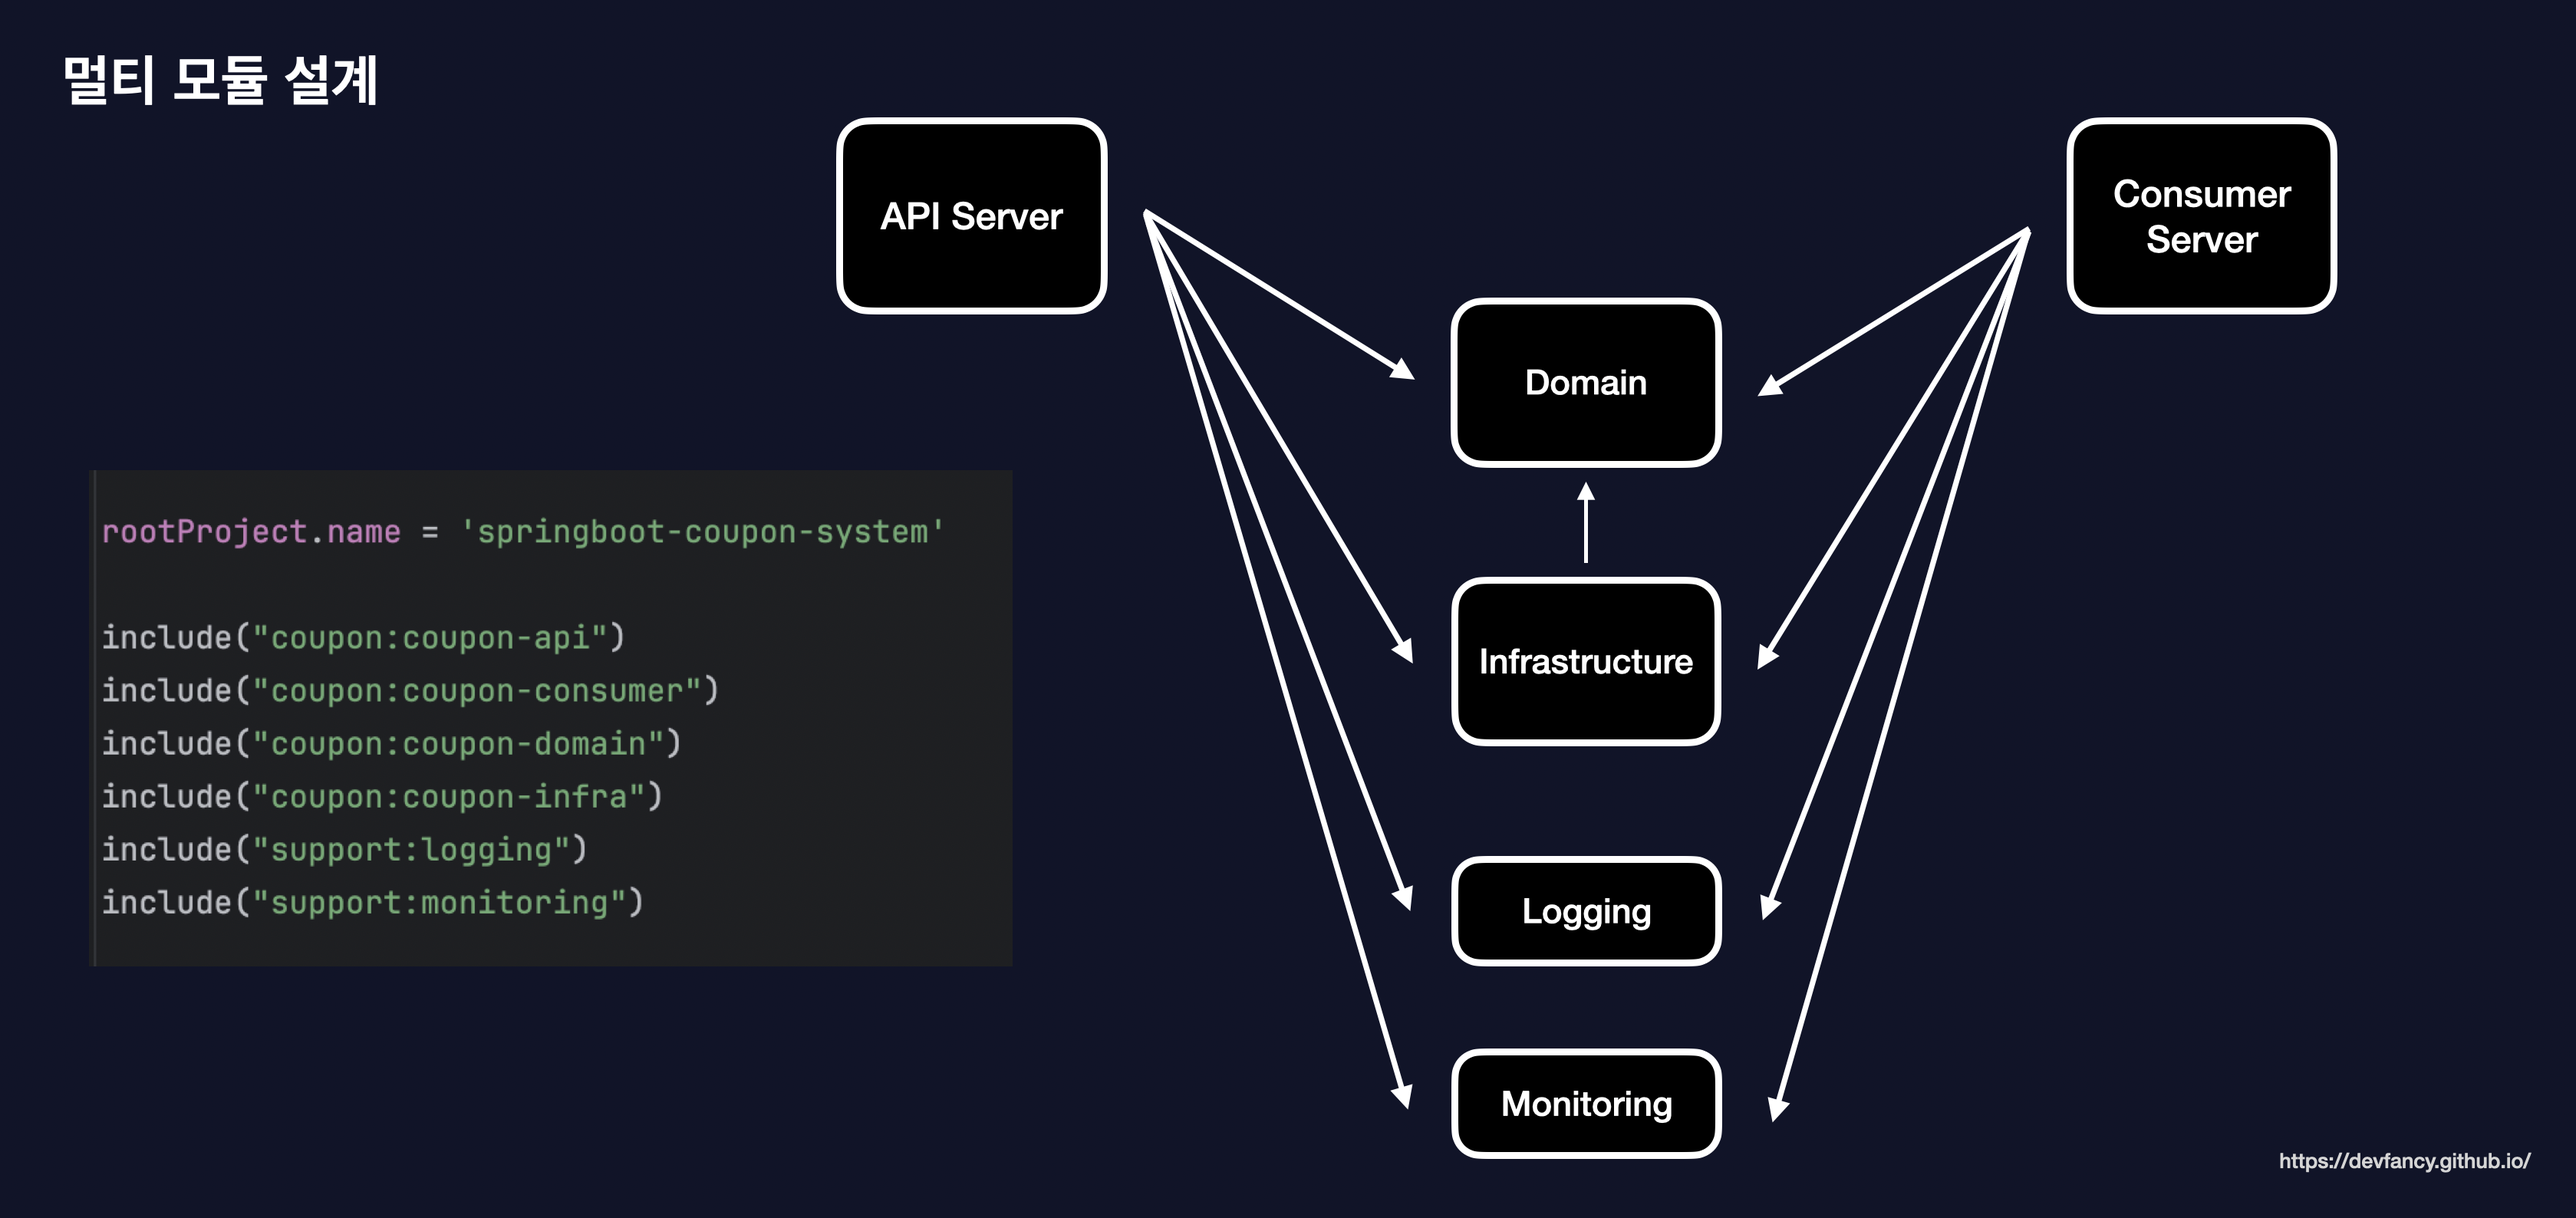
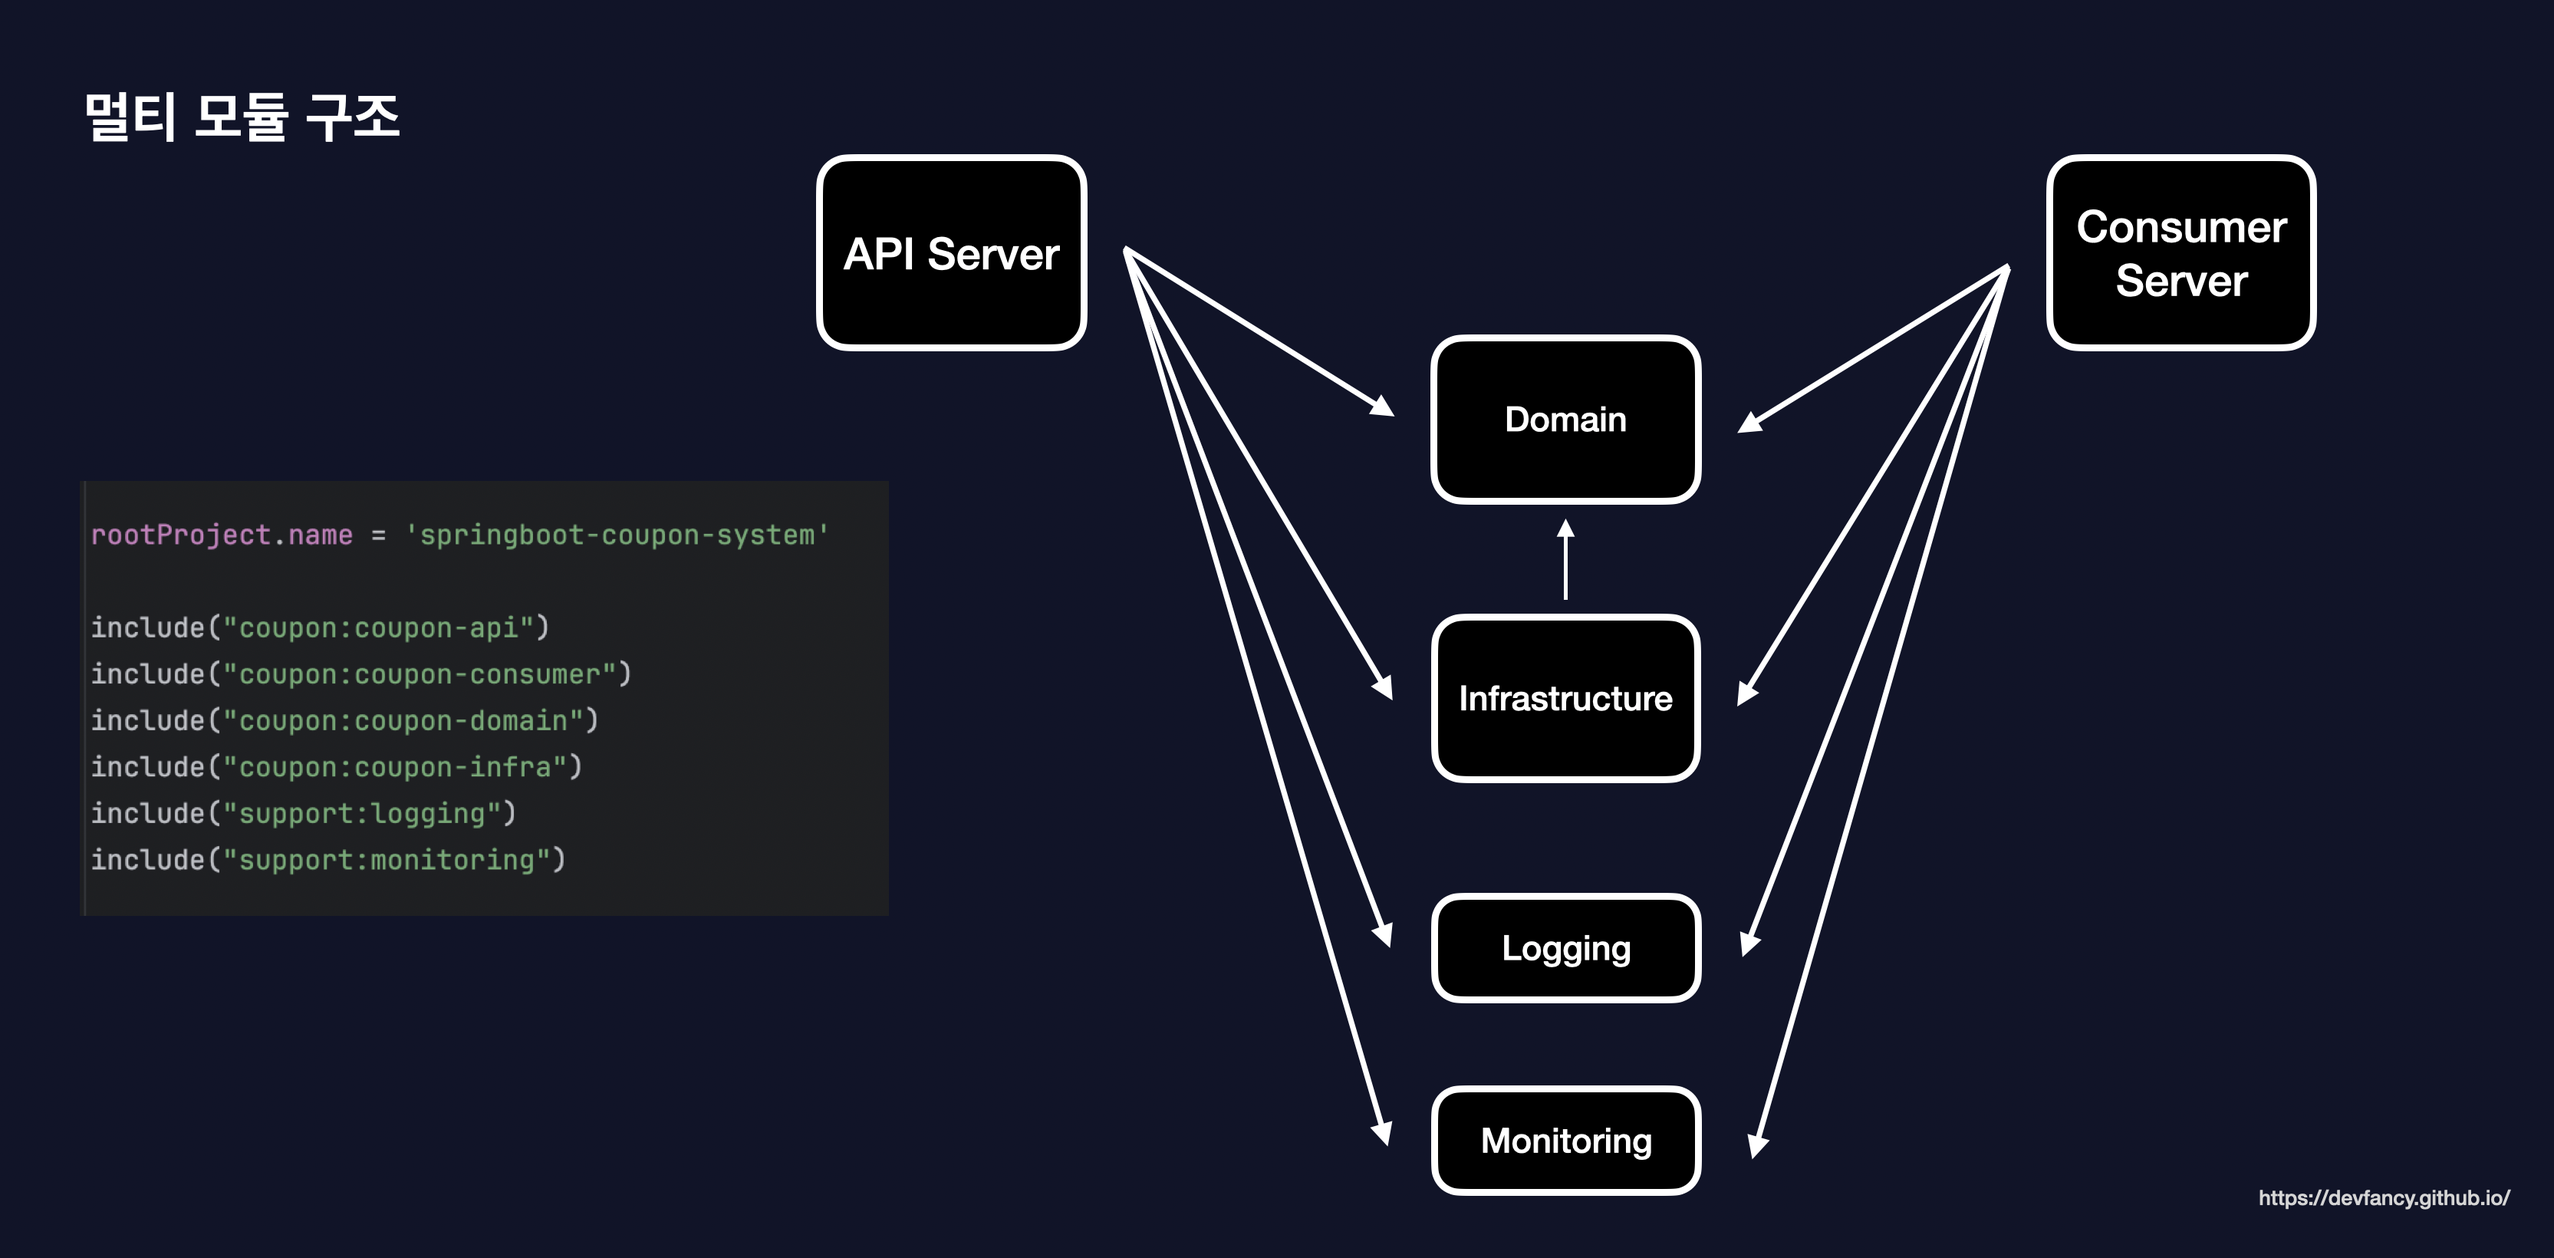
Update Technology Post "AWS EC2 기반 부하 테스트를 진행하며 시스템 아키텍처 및 성능 개선하기"

diff --git a/_posts/2025-12-30-spring-boot-coupon-system-performance-improvement.md b/_posts/2025-12-30-spring-boot-coupon-system-performance-improvement.md
@@ -43,9 +43,9 @@ AWS EC2 기반으로 구축하고 최소 사양부터 시작해서 부하 테스
 
 ## 소프트웨어 설계
 
-대규모 트래픽을 처리하기에 앞서, 복잡한 비즈니스 로직을 명확히 정의하고 시스템의 확장성을 확보하기 위해 도메인 주도 설계와 멀티 모듈 아키텍처를 적용했습니다.
+대규모 트래픽을 처리하기에 앞서, 복잡한 비즈니스 로직을 명확히 정의하고 시스템의 확장성을 확보하기 위해 도메인 주도 설계와 멀티 모듈 구조를 적용했습니다.
 
-### 전략적 설계를 통한 비즈니스 경계 설정
+### 전략적 설계
 
 협업 시 용어의 혼선을 방지하고 비즈니스 로직의 응집도를 높이기 위해 전략적 설계를 진행했습니다.
 용어 사전을 통해 도메인 내 개념을 일관되게 정의하고, 시스템이 책임지는 논리적 경계인 바운디드 컨텍스트(Bounded Context)를 다음과 같이 정의했습니다.
@@ -61,7 +61,7 @@ AWS EC2 기반으로 구축하고 최소 사양부터 시작해서 부하 테스
 
 ![](/assets/img/technology/kudadak/kudadak-coupon-issue-system-ddd-strategy-design.png)
 
-### 역할과 책임을 분리한 멀티 모듈 아키텍처
+### 멀티 모듈 구조
 
 각 모듈의 역할과 책임을 명확히 분리하기 위해 멀티 모듈 구조를 도입했습니다.
 특히 애플리케이션의 핵심인 비즈니스 로직(Domain)이 기술적인 세부 구현에 오염되지 않도록 설계하는 데 집중했습니다.
@@ -87,6 +87,8 @@ AWS EC2 기반으로 구축하고 최소 사양부터 시작해서 부하 테스
 ![](/assets/img/technology/kudadak/kudadak-coupon-issue-system-multi-module.png)
 
 ## 쿠폰 발급 프로세스
+
+이러한 소프트웨어 설계 원칙을 바탕으로, 실제 시스템이 단일 서버 환경에서 어떻게 비동기 분산 아키텍처로 진화하며 선착순 이벤트를 위한 쿠폰 발급 로직을 처리했는지 살펴보겠습니다.
 
 초기 프로젝트는 아래 사진과 같이 단일 서버 내의 API 서버와 MySQL 연동만 하는 상황이었습니다.
 
@@ -143,7 +145,8 @@ AWS EC2의 여러 서버 사양을 확인했을 때 t2 기반으로 사용하기
 성능 테스트의 목표는 만 명 정도의 사용자가 쿠폰 발급을 동시에 요청할 때 최대 3초 안에 발급할 수 있도록 서비스를 안정적으로 운영하는 것으로 잡았습니다.
 또한, 실시간 처리는 해야하는 상황이고 선착순 이내로 들어오면 순서는 보장하지 않아도 됩니다.
 
-만 명의 사용자가 요청할 때 3초 안에 발급하기 위해서는 적어도 1초당 3.3천명의 사용자에게 응답을 내려줘야 합니다. 즉, 3,300 TPS 가 되어야 합니다.
+만 명의 사용자가 요청할 때 3초 안에 모두 응답하기 위해서는 초당 약 3,333건의 요청을 처리할 수 있어야 합니다. 
+즉, 최소 3,300 TPS 이상의 성능 확보를 목표로 설정했습니다.
 
 이러한 성능을 측정하기 위해서는 부하를 점진적으로 증가시키면서 병목 지점을 파악하고 이를 개선해야 합니다.
 
